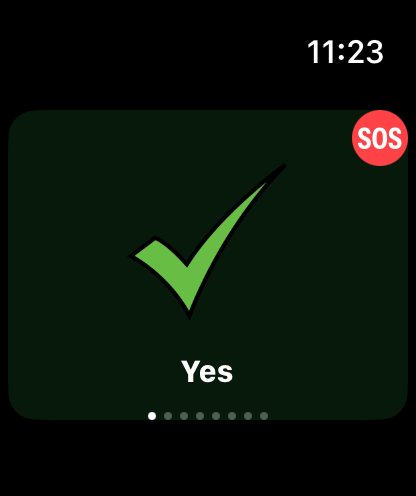
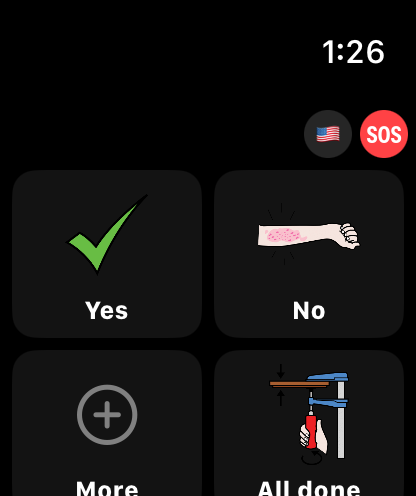
feat(watch): 2-column AAC grid + language selector
WatchPictogramCards — 2-column LazyVGrid replaces single full-screen
card swipe:
  - Yes | No always visible at top — no hunting, no swipes needed
  - More | All done | Help | Water ... scroll with Digital Crown
  - PairCard: 80pt min-height cards, ARASAAC pictogram + bold label
  - SOS button pinned top-right at all times

Language selector (critical for multilingual AAC users):
  - Flag button (🇺🇸 / 🇷🇴 / 🇷🇺 / ...) pinned next to SOS
  - Tap → sheet with all 11 supported languages + checkmark on active
  - Selection persists in UserDefaults, reloads vocabulary from API
  - WatchVocabSync.setLanguage() triggers API reload with ?lang= param
  - Startup reads saved language preference (Locale.preferredLanguages fallback)

App Store screenshots updated: both Watch sizes show new 2-column UI.

diff --git a/ios-native/PrismAACWatch/Sources/Views/WatchPictogramCards.swift b/ios-native/PrismAACWatch/Sources/Views/WatchPictogramCards.swift
@@ -44,24 +44,23 @@ struct AACVocab {
     ]
 }
 
-/// Large-picture AAC for Apple Watch — designed for children.
+/// AAC for Apple Watch — 2-column grid, designed for children.
 ///
-/// One big picture per screen. Swipe left/right (or Digital Crown) to browse.
-/// Single tap speaks the word + sends to iPhone.
-/// Emergency button always accessible via red side button / complication.
+/// Two cards always visible (Yes | No at top). Scroll with Digital Crown
+/// to reach More, Help, Water, etc. Single tap speaks + sends to iPhone.
+/// Emergency button pinned to top-right at all times.
 ///
 /// UX rationale:
-///   - Kids cannot use the Watch keyboard or Scribble
-///   - Fine motor skills limited → needs the largest possible tap target
-///   - One word at a time → no cognitive overload
-///   - Tap = speak immediately (no confirm step)
+///   - 2-column grid doubles information density vs single-card swipe
+///   - Yes/No always at positions [0][1] → no hunting required
+///   - Cards large enough (~half-screen width) to tap with coarse motor
+///   - Digital Crown scroll is familiar, no swipe gesture needed
 struct WatchPictogramCards: View {
     @EnvironmentObject var tts: WatchTTS
     @EnvironmentObject var emergency: WatchEmergencyManager
     @EnvironmentObject var session: WatchAISession
     @EnvironmentObject var vocab: WatchVocabSync
 
-    // Use synced phrases from web app; fall back to offline core
     private var allPhrases: [AACPhrase] {
         let synced = vocab.categories.flatMap { cat in
             cat.phrases.map { p in
@@ -80,125 +79,140 @@ struct WatchPictogramCards: View {
         }
     }
 
-    @State private var currentIndex = 0
+    private let columns = [GridItem(.flexible(), spacing: 6), GridItem(.flexible(), spacing: 6)]
+
+    // Supported languages — BCP-47 code + display flag + short name
+    private let supportedLanguages: [(code: String, flag: String, name: String)] = [
+        ("en-US", "🇺🇸", "EN"), ("es-ES", "🇪🇸", "ES"), ("fr-FR", "🇫🇷", "FR"),
+        ("de-DE", "🇩🇪", "DE"), ("ro-RO", "🇷🇴", "RO"), ("ru-RU", "🇷🇺", "RU"),
+        ("uk-UA", "🇺🇦", "UA"), ("pt-BR", "🇧🇷", "PT"), ("ja-JP", "🇯🇵", "JA"),
+        ("zh-CN", "🇨🇳", "ZH"), ("ar-SA", "🇸🇦", "AR"),
+    ]
+
+    @State private var showLangPicker = false
+
+    private var currentFlag: String {
+        supportedLanguages.first { $0.code == vocab.language }?.flag ?? "🌐"
+    }
 
     var body: some View {
-        ZStack {
-            // Main swipeable card
-            TabView(selection: $currentIndex) {
-                ForEach(allPhrases.indices, id: \.self) { i in
-                    PictogramCard(phrase: allPhrases[i]) {
-                        tts.speak(allPhrases[i].label)
-                        session.sendPhrase(allPhrases[i].label)
-                        WKInterfaceDevice.current().play(.click)
-                    }
-                    .tag(i)
-                }
-            }
-            .tabViewStyle(.page(indexDisplayMode: .never))
-
-            // Pager dots at bottom
-            VStack {
-                Spacer()
-                HStack(spacing: 4) {
-                    ForEach(0..<min(allPhrases.count, 8), id: \.self) { i in
-                        Circle()
-                            .fill(i == currentIndex % 8 ? Color.white : Color.white.opacity(0.3))
-                            .frame(width: 4, height: 4)
+        ZStack(alignment: .topTrailing) {
+            ScrollView {
+                LazyVGrid(columns: columns, spacing: 6) {
+                    ForEach(allPhrases) { phrase in
+                        PairCard(phrase: phrase) {
+                            tts.speak(phrase.label)
+                            session.sendPhrase(phrase.label)
+                            WKInterfaceDevice.current().play(.click)
+                        }
                     }
                 }
-                .padding(.bottom, 2)
+                .padding(.horizontal, 4)
+                .padding(.top, 32)   // leave room for top buttons
+                .padding(.bottom, 8)
             }
 
-            // SOS overlay — top-right corner, always accessible
-            VStack {
-                HStack {
-                    Spacer()
+            // Top-right button row: language flag | SOS
+            HStack(spacing: 4) {
+                // Language selector
+                Button { showLangPicker = true } label: {
+                    Text(currentFlag)
+                        .font(.system(size: 13))
+                        .frame(width: 24, height: 24)
+                        .background(Color.white.opacity(0.15))
+                        .clipShape(Circle())
+                }
+                .buttonStyle(.plain)
+
+                // SOS — always reachable
+                Button {
+                    emergency.trigger(phrase: "Help me", severity: .critical)
+                    tts.speak("Help!")
+                    WKInterfaceDevice.current().play(.notification)
+                } label: {
+                    Image(systemName: "sos")
+                        .font(.system(size: 11, weight: .bold))
+                        .foregroundColor(.white)
+                        .frame(width: 24, height: 24)
+                        .background(Color.red)
+                        .clipShape(Circle())
+                }
+                .buttonStyle(.plain)
+            }
+            .padding(.trailing, 2)
+            .padding(.top, 2)
+        }
+        .sheet(isPresented: $showLangPicker) {
+            List {
+                ForEach(supportedLanguages, id: \.code) { lang in
                     Button {
-                        emergency.trigger(phrase: "Help me", severity: .critical)
-                        tts.speak("Help!")
-                        WKInterfaceDevice.current().play(.notification)
+                        vocab.setLanguage(lang.code)
+                        showLangPicker = false
                     } label: {
-                        Image(systemName: "sos")
-                            .font(.system(size: 14, weight: .bold))
-                            .foregroundColor(.white)
-                            .frame(width: 28, height: 28)
-                            .background(Color.red)
-                            .clipShape(Circle())
+                        HStack {
+                            Text("\(lang.flag) \(lang.name)")
+                                .font(.system(size: 15))
+                            Spacer()
+                            if vocab.language == lang.code {
+                                Image(systemName: "checkmark")
+                                    .foregroundColor(.green)
+                            }
+                        }
                     }
-                    .buttonStyle(.plain)
-                    .padding(.trailing, 2)
-                    .padding(.top, 2)
                 }
-                Spacer()
             }
+            .navigationTitle("Language")
         }
     }
 }
 
-// MARK: - Single full-screen picture card
+// MARK: - Compact 2-column card (replaces full-screen PictogramCard)
 
-struct PictogramCard: View {
+struct PairCard: View {
     let phrase: AACPhrase
     let onTap: () -> Void
 
     var body: some View {
         Button(action: onTap) {
-            VStack(spacing: 6) {
-                // Picture — fills most of the Watch screen
+            VStack(spacing: 4) {
                 if let url = phrase.arasaacURL {
                     AsyncImage(url: url) { phase in
                         switch phase {
                         case .success(let img):
                             img.resizable()
                                .scaledToFit()
-                               .frame(maxWidth: .infinity, maxHeight: 100)
-                               .padding(.horizontal, 8)
-                        case .failure:
-                            LargeSFSymbol(name: phrase.sfSymbol, color: phrase.color)
-                        case .empty:
-                            LargeSFSymbol(name: phrase.sfSymbol, color: phrase.color)
-                                .overlay(ProgressView().scaleEffect(0.5), alignment: .bottom)
-                        @unknown default:
-                            LargeSFSymbol(name: phrase.sfSymbol, color: phrase.color)
+                               .frame(maxWidth: .infinity, maxHeight: 52)
+                        default:
+                            Image(systemName: phrase.sfSymbol)
+                                .font(.system(size: 32))
+                                .foregroundColor(phrase.color)
+                                .frame(maxWidth: .infinity, maxHeight: 52)
                         }
                     }
                 } else {
-                    LargeSFSymbol(name: phrase.sfSymbol, color: phrase.color)
+                    Image(systemName: phrase.sfSymbol)
+                        .font(.system(size: 32))
+                        .foregroundColor(phrase.color)
+                        .frame(maxWidth: .infinity, maxHeight: 52)
                 }
-
-                // Label — large, bold, readable on small screen
                 Text(phrase.label)
-                    .font(.system(size: 16, weight: .bold))
+                    .font(.system(size: 13, weight: .bold))
                     .foregroundColor(.primary)
                     .lineLimit(1)
                     .minimumScaleFactor(0.6)
-                    .padding(.horizontal, 4)
             }
-            .frame(maxWidth: .infinity, maxHeight: .infinity)
-            .background(phrase.color.opacity(0.12))
-            .cornerRadius(14)
+            .padding(.vertical, 6)
+            .padding(.horizontal, 4)
+            .frame(maxWidth: .infinity, minHeight: 80)
+            .background(phrase.color.opacity(0.15))
+            .cornerRadius(12)
         }
         .buttonStyle(.plain)
-        .padding(.horizontal, 2)
-        .padding(.vertical, 2)
         .accessibilityLabel("Say: \(phrase.label)")
-        .accessibilityHint("Tap to speak")
     }
 }
 
-struct LargeSFSymbol: View {
-    let name: String
-    let color: Color
-    var body: some View {
-        Image(systemName: name)
-            .font(.system(size: 60))
-            .foregroundColor(color)
-            .frame(maxWidth: .infinity, maxHeight: 100)
-    }
-}
-
-// MARK: - Root view: large pictogram cards + emergency overlay
+// MARK: - Root view: 2-column grid + emergency overlay
 
 struct WatchRootView: View {
     @EnvironmentObject var session: WatchAISession

diff --git a/ios-native/PrismAACWatch/Sources/AI/WatchVocabSync.swift b/ios-native/PrismAACWatch/Sources/AI/WatchVocabSync.swift
@@ -12,8 +12,15 @@ import WatchConnectivity
 final class WatchVocabSync: NSObject, ObservableObject, WCSessionDelegate {
 
     @Published private(set) var categories: [WatchCategory] = WatchCategory.offlineCore
-    @Published private(set) var language: String = "en-US"
+    @Published var language: String = Locale.preferredLanguages.first ?? "en-US"
     @Published private(set) var source: Source = .offline
+
+    /// Switch to a different display language and reload vocabulary.
+    func setLanguage(_ lang: String) {
+        language = lang
+        UserDefaults.standard.set(lang, forKey: "watchLanguage")
+        Task { await loadFromAPI(lang: lang) }
+    }
 
     enum Source { case offline, companion, cloud }
 
@@ -21,17 +28,24 @@ final class WatchVocabSync: NSObject, ObservableObject, WCSessionDelegate {
 
     override init() {
         super.init()
+        // Restore last chosen language
+        if let saved = UserDefaults.standard.string(forKey: "watchLanguage") {
+            language = saved
+        }
         if WCSession.isSupported() {
             WCSession.default.delegate = self
             WCSession.default.activate()
         }
-        Task { await loadFromAPI() }
+        Task { await loadFromAPI(lang: language) }
     }
 
     // MARK: - Load from web app API (standalone path)
 
-    func loadFromAPI() async {
-        guard let url = URL(string: "\(apiBase)/vocabulary") else { return }
+    func loadFromAPI(lang: String? = nil) async {
+        let targetLang = lang ?? language
+        var components = URLComponents(string: "\(apiBase)/vocabulary")
+        components?.queryItems = [URLQueryItem(name: "lang", value: targetLang)]
+        guard let url = components?.url else { return }
         do {
             let (data, _) = try await URLSession.shared.data(from: url)
             let vocab = try JSONDecoder().decode(VocabResponse.self, from: data)
